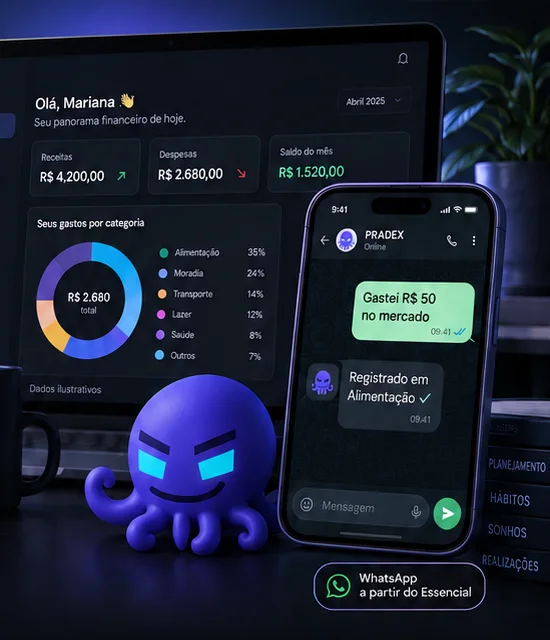
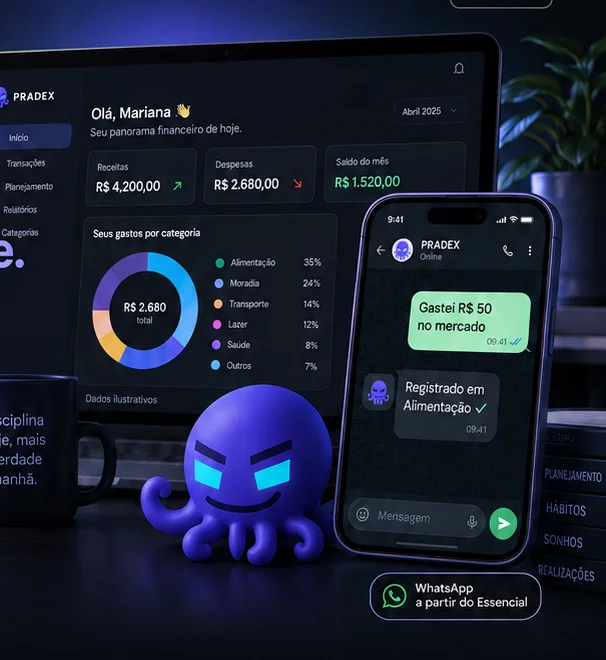
Hero: alarga o enquadramento até onde o texto da arte permite
O Lucas olhou e disse que "a imagem ficou na metade". Estava mesmo: o primeiro
corte começava em x=572 e decepava o notebook e a caneca inteira.

O corte foi pra x=516, que é o limite real — mais à esquerda e o TEXTO DO HERO
embutido na arte ("Sua cabeça mais leve." e o botão) entra no recorte. O resto de
"leve." que ainda sobra na borda é comido pela máscara em gradiente de 7% que já
existia pra dissolver o corte.

Agora entram a barra lateral do app, a caneca e o notebook quase inteiro. 44 KB.

Isto é o teto do que dá pra fazer com esta arte. Pra enquadrar melhor de verdade
é preciso um render NOVO da cena, sem o texto embutido — e aí é trocar o arquivo,
o código não muda.

diff --git a/src/components/HeroMockup.jsx b/src/components/HeroMockup.jsx
@@ -15,9 +15,11 @@
 //
 // Então a cena virou o que ela é: uma imagem.
 //   origem: Chave Mestre/Projetos/PRADEX/marca/home-proposta-visual.png (1122×1402)
-//   recorte: extract 70 572 550 640 — só a cena, sem o texto do hero que fica à
-//            esquerda na arte original (o primeiro corte trouxe um "s leve." fantasma)
-//   saída:   public/hero-cena.webp — 37 KB, contra 1,5 MB do PNG inteiro
+//   recorte: extract 60 516 606 660 — a cena inteira (notebook, caneca, polvo,
+//            celular). O corte NÃO pode ir mais pra esquerda: o texto do hero está
+//            embutido na arte e vem junto. O resto de "leve." que sobra na borda é
+//            apagado pela máscara em gradiente abaixo.
+//   saída:   public/hero-cena.webp — 44 KB, contra 1,5 MB do PNG inteiro
 //
 // O QUE FICA DEVENDO, e precisa de um render novo pra resolver (não de código):
 // a tela dentro da arte diz "Olá, Mariana" e "Abril 2025". A persona da conta demo
@@ -61,8 +63,8 @@ export default function HeroMockup() {
       <img
         className="pdx-hero-mk__img"
         src="/hero-cena.webp"
-        width="550"
-        height="640"
+        width="606"
+        height="660"
         alt="O Pradex aberto no computador mostrando gastos por categoria, e no celular uma conversa no WhatsApp em que a pessoa escreve “gastei 50 no mercado” e o app responde que registrou em Alimentação."
         loading="eager"
         decoding="async"
